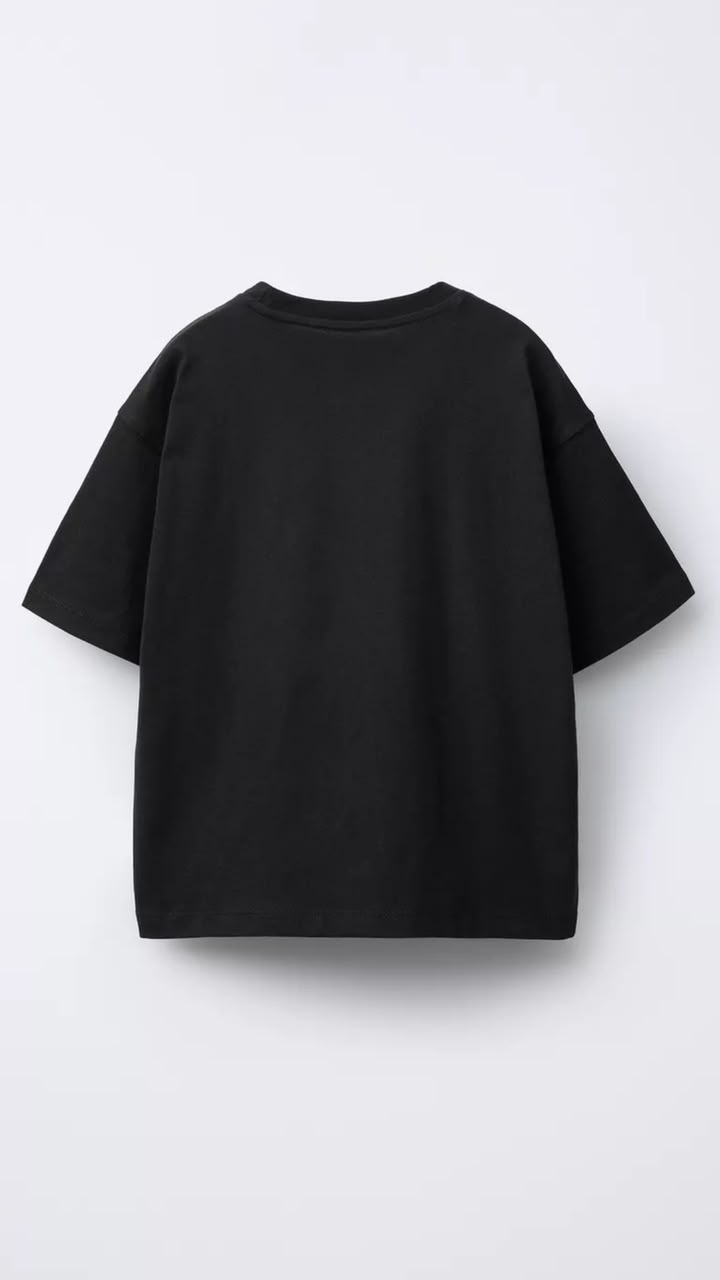
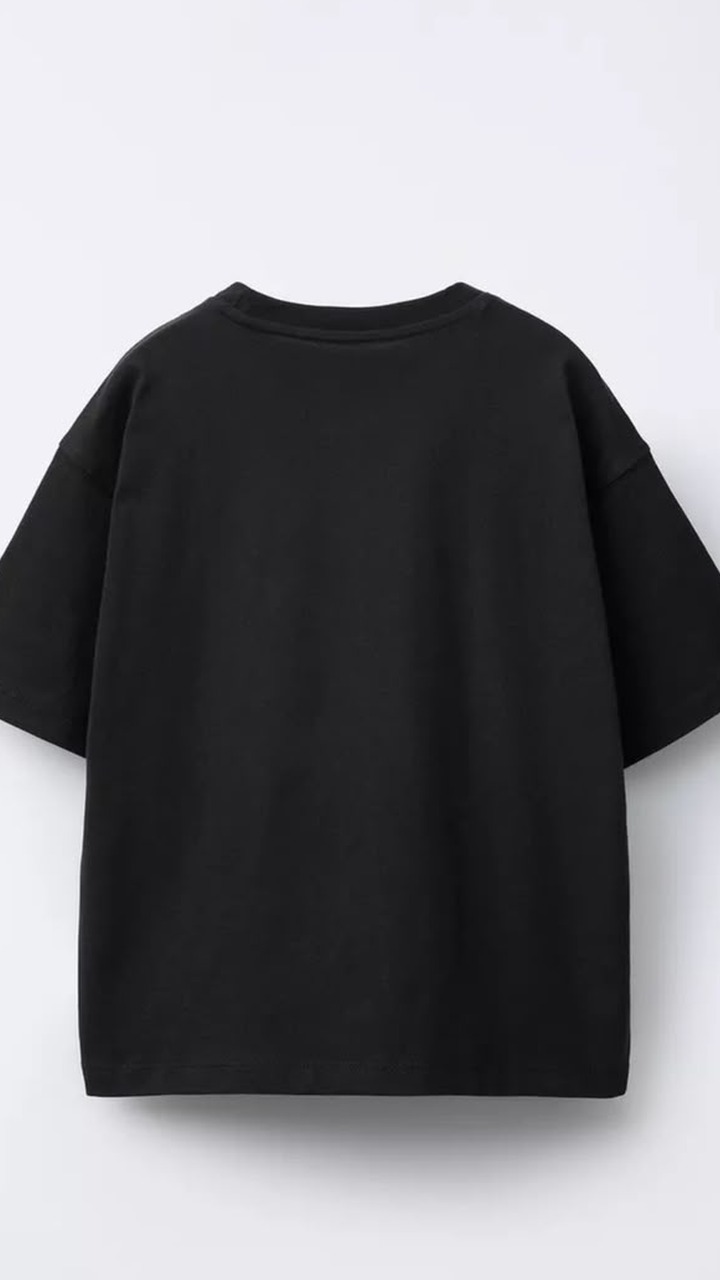
fix: área de impressão em cima do colarinho + foto do verso em escala diferente (#4)
Medi a posição real do produto nas duas fotos (ImageMagick, análise de
luminância por linha) pra confirmar e corrigir dois problemas:

- printArea da frente/verso começava praticamente em cima do colarinho
  (y=300/280, quase colado no início da peça) — desce pra abaixo do
  colarinho, no peito (y=400/380 antes do ajuste de escala abaixo).
- A foto do verso (tshirt-back.jpg) mostrava a mesma peça bem menor no
  frame que a da frente (bounding box da peça: 710×830px na frente contra
  650×670px no verso — a câmera estava mais afastada). Reenquadrei a foto
  do verso (upscale 124% + crop central) pra bater exatamente na mesma
  escala/posição da frente (bounding box da peça agora idêntico: x[0,710]
  y[280,1110] nos dois). Com isso a printArea do verso pôde virar igual à
  da frente.

Claude-Session: https://claude.ai/code/session_01DMHsVrvwmN4JYKbycrJHxi

Changed region(s): [[0.0, 0.2188, 1.0, 0.9375]]

diff --git a/components/editor/MockupEditor.tsx b/components/editor/MockupEditor.tsx
@@ -15,13 +15,17 @@ const GARMENT: GarmentConfig = {
     image: '/garments/tshirt-front.jpg',
     imageWidth: 720,
     imageHeight: 1280,
-    printArea: { x: 185, y: 300, width: 350, height: 550 },
+    printArea: { x: 185, y: 400, width: 350, height: 550 },
   },
   back: {
+    // Foto original vinha "menor" no frame que a da frente (mesma peça, mais
+    // afastada da câmera) — reenquadrada (upscale + crop central 124%) pra
+    // bater na mesma escala/posição da frente. Por isso a printArea é
+    // idêntica à da frente agora.
     image: '/garments/tshirt-back.jpg',
     imageWidth: 720,
     imageHeight: 1280,
-    printArea: { x: 175, y: 280, width: 370, height: 590 },
+    printArea: { x: 185, y: 400, width: 350, height: 550 },
   },
 }
 
